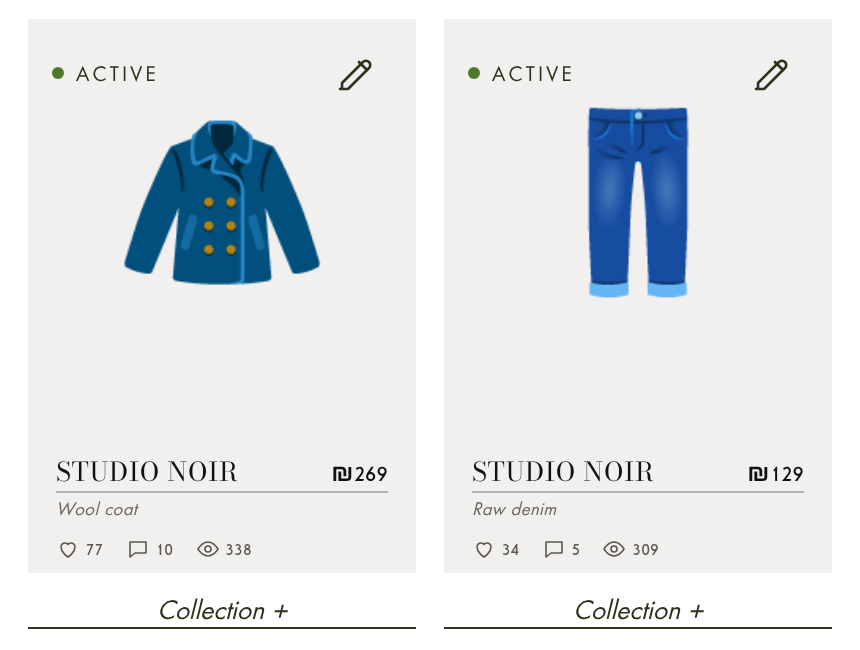
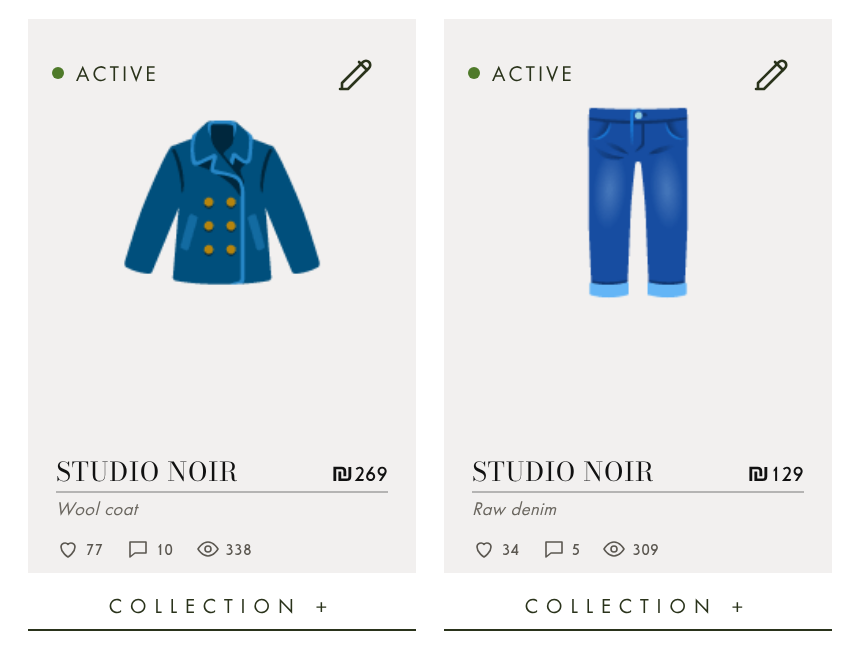
My products: collection picker in widely tracked caps
Claude-Session: https://claude.ai/code/session_011eJFT5j73mRgnWhpcGvqfp

diff --git a/products.html b/products.html
@@ -212,13 +212,13 @@
 
         /* Quick "assign to collection" picker under each live card, so a seller
            can file an already-listed piece without opening the editor. Minimal:
-           an italic serif text link with a hairline under it. */
+           widely tracked caps over a hairline that spans the card. */
         .prod-cell .pe-collection {
             align-self: stretch; width: 100%;
             text-align: center; text-align-last: center;   /* centred across the card's width */
-            font-family: 'Cormorant Garamond', 'Bodoni Moda', Georgia, serif !important;
-            font-style: italic; font-size: 14px; font-weight: 500; letter-spacing: 0;
-            padding: 0 0 1px; border: none; border-bottom: 1px solid #2A331B; border-radius: 0;
+            font-family: 'Oswald', 'Segoe UI', Helvetica, Arial, sans-serif !important;
+            font-size: 10.5px; font-weight: 400; letter-spacing: 4px; text-transform: uppercase;
+            padding: 0 0 6px; border: none; border-bottom: 1px solid #2A331B; border-radius: 0;
             background: none; color: #2A331B; cursor: pointer;
             -webkit-appearance: none; appearance: none;
         }
